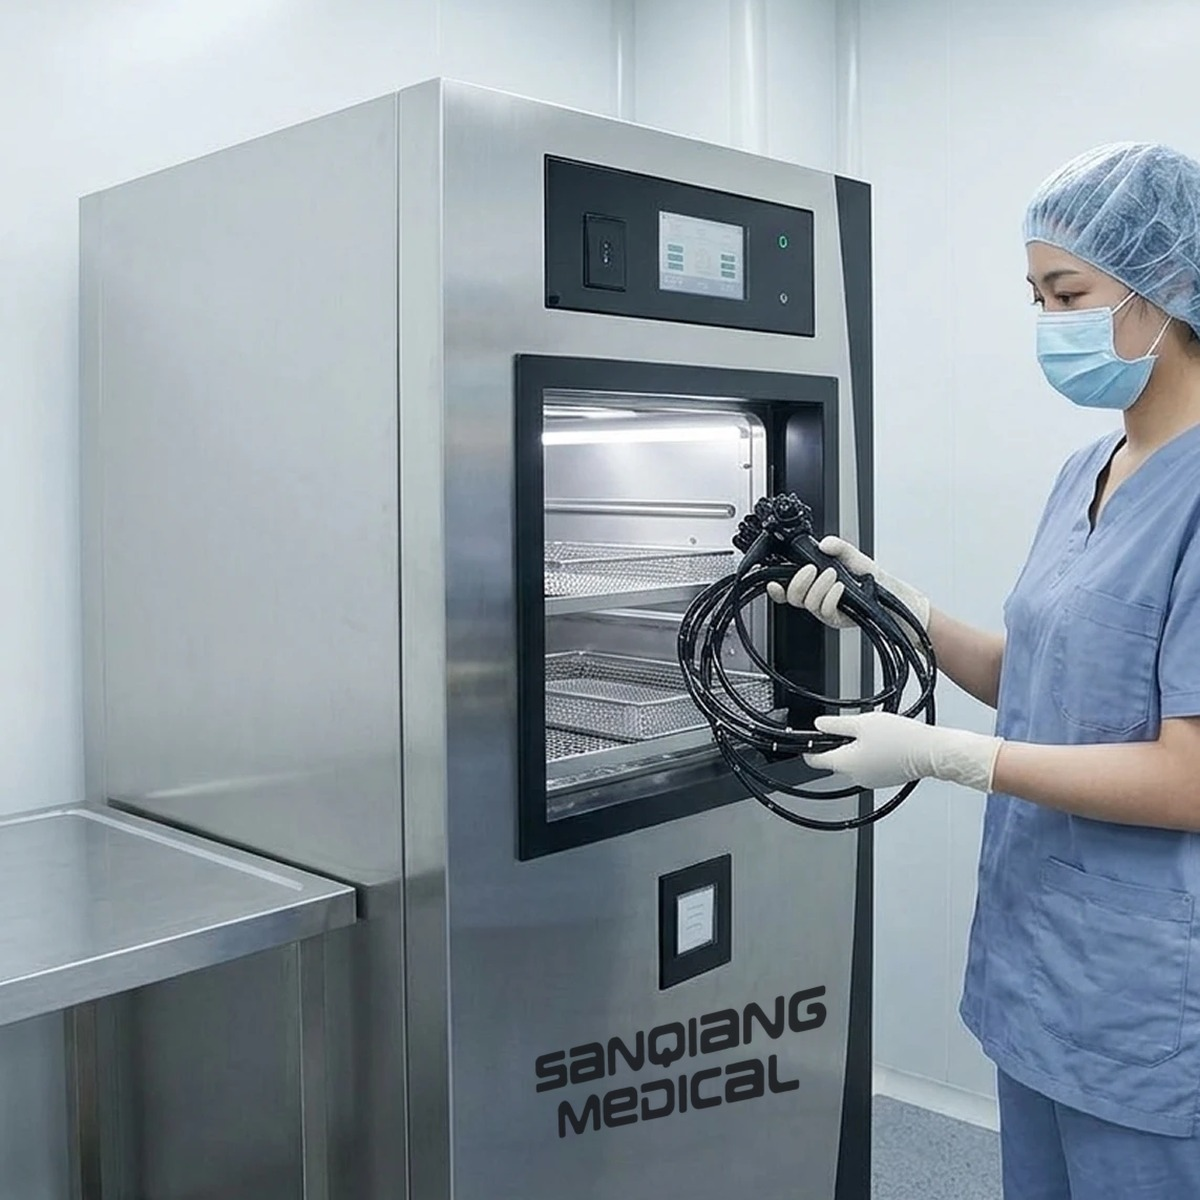
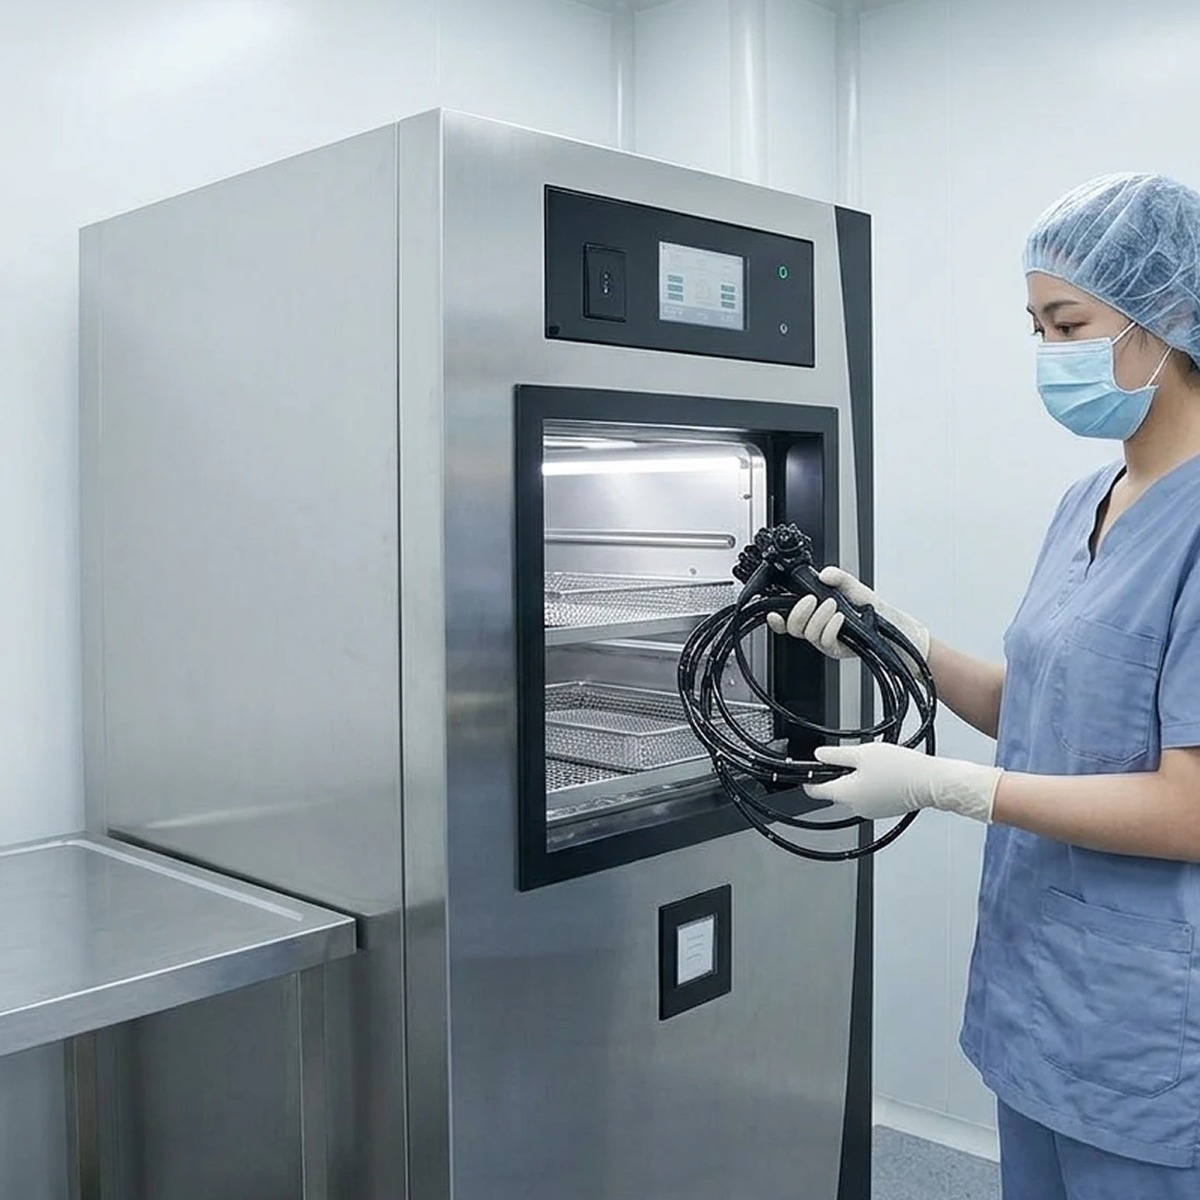
Carrusel: fotos nuevas de Tuttnauer y Sanqiang
- Tuttnauer: la operaria cargando el autoclave con el carro, en cuadrado.
- Sanqiang: la foto del equipo sin el logo pintado, en cuadrado.
- La etiqueta vuelve a la izquierda en todas las fotos.

diff --git a/src/lib/heroImagen.ts b/src/lib/heroImagen.ts
@@ -65,9 +65,9 @@ const TITULO_HERO: Record<string, string> = {
  *  desde que todas llegan cuadradas, se ven enteras. */
 const ENCUADRE_HERO: Record<string, string> = {};
 
-/** Fotos en las que la etiqueta va abajo a la derecha (en escritorio). En la
- *  de Sanqiang, a la izquierda tapaba el logo pintado en la máquina. */
-const ETIQUETA_DERECHA = new Set(['sanqiang-baja-temperatura']);
+/** Fotos en las que la etiqueta va abajo a la derecha (en escritorio), cuando
+ *  a la izquierda taparía lo importante. Hoy ninguna. */
+const ETIQUETA_DERECHA = new Set<string>([]);
 
 /** Etiqueta del producto, armada desde su ficha. */
 /* `nombre` es lo que va tras el número en el archivo. Puede llevar una
